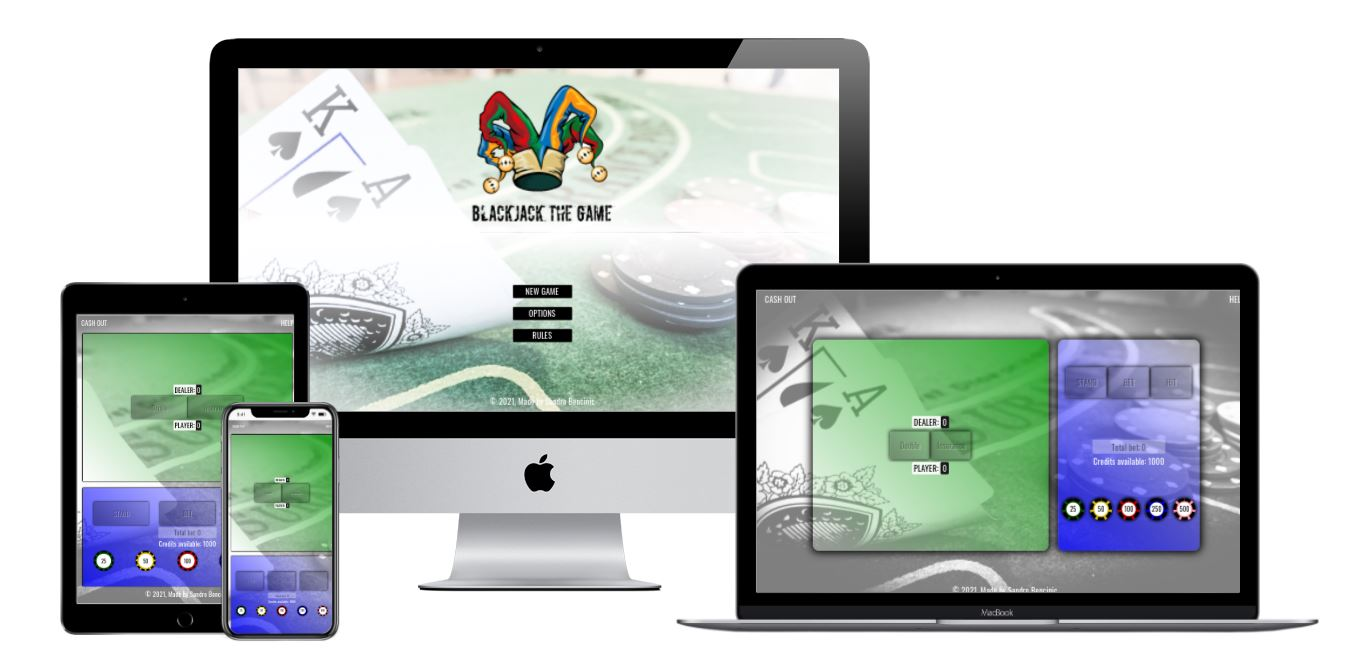
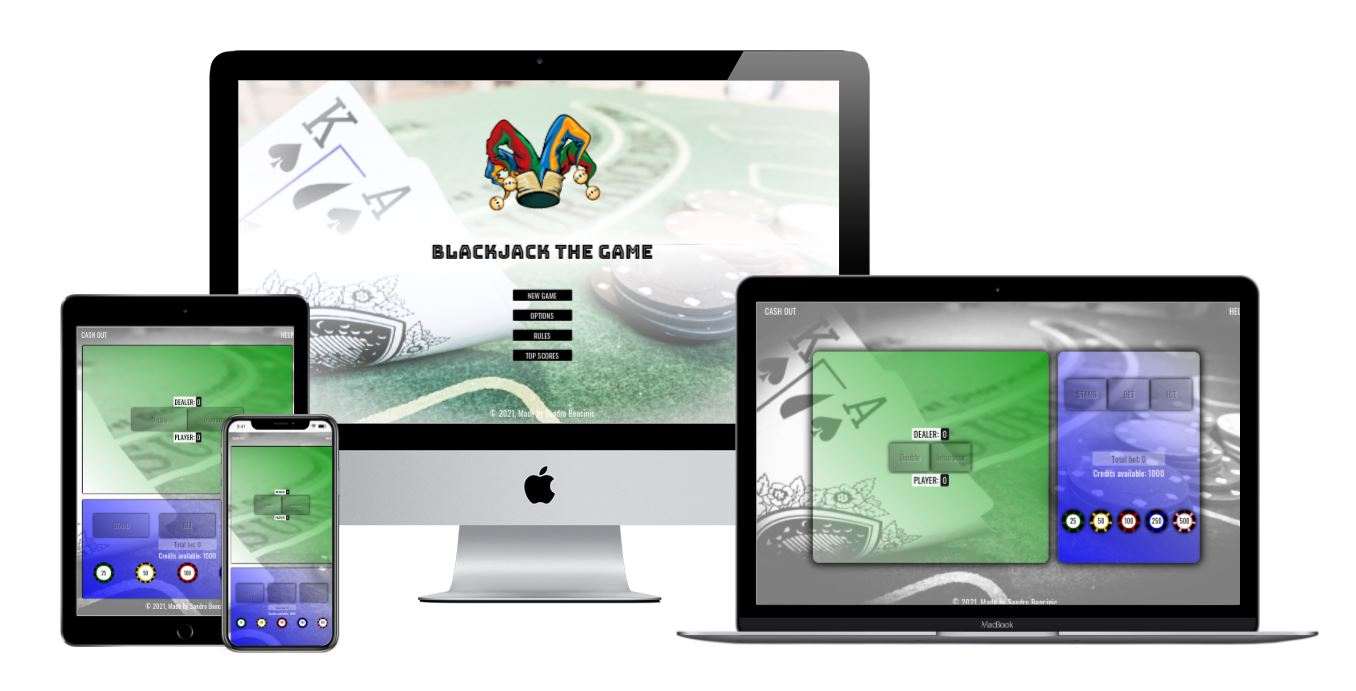
Update content in readme file (minor content changes, typos, etc)

diff --git a/README.md b/README.md
@@ -28,13 +28,13 @@
 
 - *As a casual player*, I want to get notified about the score in real time so I can adapt my strategy accordingly.
 
-- *As a casual player*, I want to see 'quit' button so I can restart the session whenever I wish.
+- *As a casual player*, I want to see 'quit' button so I can exit the session whenever I wish.
 
 #### 1.1.3 Advanced player's goals
 
 - *As an advanced player*, I want to be able to choose advanced options in order to make the game more interesting.
 
-- *As an advanced player*, I want to be able to keep my score so I can compare it with previous scores.
+- *As an advanced player*, I want to be able to keep my score so I can compare it with best scores.
 
 - *As an advanced player*, I want to see virtual currency system so I can place bets in each round.
 
@@ -64,17 +64,17 @@
 
 - [Balsamiq](https://balsamiq.com/) was used to create the wireframes during the site design process.
 
-- [jQuery](https://jquery.com/) was used along with JavaScript to manipulate the DOM, CSS and handling JavaScript events in simpler way.
+- [jQuery](https://jquery.com/) was used along with JavaScript to manipulate the DOM, CSS and handle JavaScript events in easier way.
 
-- [Google Fonts](https://fonts.google.com/) were used to import 'Oswald' font which is the only font used throughout the site.
+- [Google Fonts](https://fonts.google.com/) were used to import 'Oswald' and 'Bungee Inline' fonts which were used throughout the site.
 
-- [Gitpod](https://www.gitpod.io/) was used to write all the HTML and CSS for the site.
+- [Gitpod](https://www.gitpod.io/) was used to write all the HTML, CSS and JavaScript code for the site.
 
 - [Git](https://git-scm.com/) was used for version control by utilizing the Gitpod terminal to commit to Git and Push to GitHub
 
 - [GitHub](https://github.com/) is used to store the projects code after being pushed from Git.
 
-- [Photopea](https://www.photopea.com/) is free online photo editor which was used to edit and optimize background image and all card images.
+- [Photopea](https://www.photopea.com/) is free online photo editor which was used to edit and optimize background image, logo and all card images.
 
 - [Font Awesome](https://fontawesome.com/) was used to add icons for aesthetic and UX purposes.
 
@@ -86,7 +86,7 @@
 
 ## 4. DESIGN
 
-Design is very simplistic using only one photo as main background and all other elements are on top with added opacity so the background can be visible all the time. Background image shows a game of BlackJack in action which suits the theme of the site.
+Design is simplistic, with only one photo as main background (color and grayscale version). In the main menu there is also game logo (joker hat), game title and menu buttons. In the game playing area, main elements are opaque so the background is visible all the time. Background image shows a game of BlackJack in action which suits the theme of the site.
 
 Color scheme consists of two main colors. Light green for main playing area where cards are displayed, and deep blue for controls area where most of the playing buttons are placed. Throught the game pop up messages are displayed to explain current status of the game to the user and sometimes to decide on the next step. They are made in white color with black text. Font which is used for headings is 'Bungee Inline' with 'Sans Serif' as the fallback font in case for any reason main font is not loaded. Font which is used throughout the site for the rest of the text is 'Oswald' with 'Sans Serif' as the fallback font.
 
@@ -94,17 +94,17 @@ Color scheme consists of two main colors. Light green for main playing area wher
 
 #### 4.1.1 Start Screen
 
-First thing shown on the site is 'Start screen' with three buttons to select from: 'New game', 'Options', 'Rules' and additional 'Top Scores' button which is displayed only after there is at least one entry on top scores list. By selecting 'New game' as expected new game of BlackJack will start. By selecting 'Options' button player will have be able to choose from 'Conservative' and 'Aggressive' modes. This will control the way dealer will make decisions during the round. Lastly, 'Rules' button will display basic rules of the game in a box with arrow buttons and 'close' button for easier navigation. 'Tops scores' button will display list of top 5 scores stored in local memory.
+First thing shown on the site is 'Start screen' with three buttons to select from: 'New game', 'Options', 'Rules' and additional 'Top Scores' button which is displayed only after there is at least one entry on top scores list. By selecting 'New game', new game of BlackJack starts. By selecting 'Options' button player can choose from 'Conservative' and 'Aggressive' modes. This controls the way dealer makes decisions during the round. Lastly, 'Rules' button displays basic rules of the game in a box with arrow buttons and 'close' button for easier navigation. 'Tops scores' button displays list of top 5 scores stored in local storage of the browser.
 
 #### 4.1.2 Navigation
 
 ##### Cash-out
 
-This option will prompt a pop up message with a simple yes/no choice whether player wants to end current game session or not. If 'yes' is selected this will inform the player of the final score and reload the page, bringing the player to main menu.
+This option prompts a pop up message with a simple yes/no choice whether player wants to end current game session or not. If 'yes' is selected this informs the player of the final score and reloads the page, bringing the player to main menu.
 
 ##### Help
 
-This option will show the same rules window as the button in the main menu. Rules window is interactive and allows the player to easily navigate through all rules by selecting on of the arrows. Every rule has it's title and text explaining the rule.
+This option show the same rules window as the button in the main menu. Rules window is interactive and allows the player to easily navigate through all rules by selecting on of the arrows. Every rule has it's title and text which explains the rule.
 
 #### 4.1.3 Main game area
 
@@ -116,25 +116,25 @@ This is where majority of the card game takes place. It consists of 2 card conta
 
 * *Score boxes* - Their purpose is to show sum of the drawn card values. Because of the game mechanic players score box gets updated in real time after every new card is drawn. Dealers score box shows only the value of the one visible card in dealer's container. If dealer gets a chance to play and to show the cards in the end of the round then this score box is updated with total sum of card values too.
 
-* *Undo bet button* - It is enabled only after at least one bet is placed and before cards are dealt. By selecting in the last bet will be cancelled and credits will be returned to player. If all bets are cancelled button gets disabled again.
+* *Undo bet button* - It is enabled only after at least one bet is placed and before cards are dealt. By selecting in the last bet will be cancelled and credits will be returned to player. If all bets are cancelled button gets disabled again. On desktop computers this button is shown inside of controls section.
 
-* *Double button* - It is enabled only after initial cards are dealt. If player decides to choose other action at this stage (hit / stand / insurance) Double button gets disabled again until the end of the round.
+* *Double button* - It is enabled only after initial cards are dealt. If player decides to choose other action at this stage (hit / stand / insurance), 'double' button gets disabled again until the end of the round. If 'hit' button is activated, 'double' button is deactivated for the rest of the round.
 
-* *Insurance button* - It gets enabled only in situation when after initial dealing of cards dealer's visible card is Ace or any card which has value of 10. If player decides to activate insurance button separate bet will be placed. Pop-up message will be shown informing the player of the outcome of insurance bet and game will continue.
+* *Insurance button* - It gets enabled only in situation when after initial dealing of cards dealer's visible card is Ace or any card which has value of 10. If player decides to activate insurance button, separate bet is placed. Then a pop-up message is shown informing the player of the outcome of insurance bet and game continues. If 'hit' button is activated, 'insurance' button is deactivated for the rest of the round.
 
-* *Pop up message box* - It gets visible only when game needs to inform player about game outcome (win, loss, draw or insurance bet). Message box is shown in the same section on the screen where scores and double/insurance buttons are so when it gets activated it will automatically disable the latter.
+* *Pop up message box* - It gets visible only when game needs to inform player about game outcome (win, loss, draw or insurance bet), or wait for payer's input. Message box is shown in the same section on the screen where scores and double/insurance buttons are so when it gets activated it will automatically disable the latter.
 
 ##### Controls section
 
-This is where majority of player game choices takes place. It consists of Bank info which shows current amount of credits in the bank, chip buttons which are used to place bets and three game buttons (bet / hit / stand).
+This is where majority of player game choices takes place. It consists of 'Credits available' which shows current amount of credits on player's disposal, 'Total bet' box, chip buttons which are used to place bets and three game buttons (bet / hit / stand).
 
-* *Bank info* - Shows current amount of credits left for player to place as a bet. It gets updated in real time depending on player's bets and potential winnings.
+* *Credits available* - Shows current amount of credits left for player to place as a bet. It gets updated in real time depending on player's bets and potential winnings.
 
-* *Bet-info* - Shows total value of the bet in the round. It adds or deducts total value of the bet depending on player's actions and updates the value in real time. After the cards are dealt this value can not be changed until the end of the round (only exception is if player decides to play double game which will double the bet or insurance game which will display separate bet in brackets).
+* *Total bet* - Shows total value of the bet in the round. It adds or deducts total value of the bet depending on player's actions and updates the value in real time. After the cards are dealt this value can not be changed until the end of the round (only exception is if player decides to play double game which will double the bet or insurance game which will display separate bet in brackets).
 
-* *Chip buttons* - There are 5 chip buttons with different values and colors. By selecting any of them a bet of the assigned value in credits will be placed. If there is no enough credits left in the bank to place a bet of certain chip value this will disable the chip button. If the amount gets available again (for example by undoing the last bet) chip button gets activated. Once the bet is placed and initial cards are dealt all chip buttons get deactivated until the beginning of the new round.
+* *Chip buttons* - There are 5 chip buttons with different values and colors. By selecting any of them a bet of the assigned value in credits is placed. If there is no enough credits left to place a bet of certain chip value this chip is then deactivated. If the amount gets available again (for example by undoing the last bet) chip button gets activated. Once the bet is placed and initial cards are dealt all chip buttons get deactivated for the rest of the round.
 
-* *Play buttons* - There are 3 buttons in this area available to play the game (bet / hit / stand). Bet button gets activated after there is minimum bet placed in the pot. Bet button can be selected only once after which initial cards will be dealt and button will be disabled until new bet in next round is placed. Hit button will add new card to player's card container and it can be selected until there are 5 cards in player's card container or until the total player's score is 21 or more. Stand button will end player's turn and allow dealer to play.
+* *Play buttons* - There are 3 buttons in this area available to play the game (bet / hit / stand). Bet button gets activated after there is minimum bet placed in the pot. Bet button can be selected only once, after which initial cards is dealt and button is deactivated until the end of the round. Hit button adds new card to player's card container and it can be selected until there are 5 cards in player's card container or until the total player's score is 21 or more. Stand button ends player's turn and allows dealer to play.
 
 
 ---
@@ -202,7 +202,7 @@ The [W3C Markup Validator](https://validator.w3.org/) and [W3C CSS Validator](ht
 
     [Example 6](/documentation/testing/images/ux/006.jpg)
 
-- As a first time player, I want to clearly see who won and why so I can quicker understand all mechanics of the game.
+- As a first time player, I want to clearly see who won and why so I can faster understand all mechanics of the game.
 
     - Every game outcome is explained through pop up messages, same as special functions such as *double*, *insurance* and *cash-out*
 
@@ -217,7 +217,7 @@ The [W3C Markup Validator](https://validator.w3.org/) and [W3C CSS Validator](ht
 
 - As a casual player, I want to be challenged and entertained.
 
-    - Different combinations of cards, different betting strategies and in game decisions made by user combined with many possible game outcomes make every round of the game a unique experience for the user.
+    - Different combinations of cards, betting strategies and in game decisions made by user combined with many possible game outcomes make every round of the game a unique experience for the user.
 
 - As a casual player, I want to get notified about the score in real time so I can adapt my strategy accordingly.
 
@@ -225,7 +225,7 @@ The [W3C Markup Validator](https://validator.w3.org/) and [W3C CSS Validator](ht
 
     [Example 8](/documentation/testing/images/ux/008.jpg)
 
-- As a casual player, I want to see 'quit' button so I can restart the session whenever I wish.
+- As a casual player, I want to see 'quit' button so I can exit the session whenever I wish.
 
     - In the top left corner of the navigation bar there is *Cash-out* button which gives the user the option to leave current session and get notified about the final score.
 
@@ -241,9 +241,9 @@ The [W3C Markup Validator](https://validator.w3.org/) and [W3C CSS Validator](ht
 
     [Example 11](/documentation/testing/images/ux/011.jpg)
 
-- As an advanced player, I want to be able to keep my score so I can compare it with previous scores.
+- As an advanced player, I want to be able to keep my score so I can compare it with best scores.
 
-    - In the main menu there is a 'Top Scores' button which will show list of all time top 5 scores stored in local memory of the browser.
+    - In the main menu there is a 'Top Scores' button which will show list of all time top 5 scores stored in local storage of the browser.
 
     [Example 12](/documentation/testing/images/ux/012.jpg)
 
@@ -279,7 +279,7 @@ The [W3C Markup Validator](https://validator.w3.org/) and [W3C CSS Validator](ht
 
     ![responsive](/documentation/testing/images/resolutions/responsive.JPG)
 
-- *NOTE: Game is designed to be played in portrait mode on mobile and tablet devices and in landscape mode on desktop and laptop computers. However, game experience gets better in landscape mode on mobile and tablet devices with larger screen resolutions. For this purpose, in cases when player is using mobile or tablet device in landscape mode, folloing pop up message appears:*
+- *NOTE: Game is designed to be played in portrait mode on mobile and tablet devices and in landscape mode on desktop and laptop computers. However, game experience gets better in landscape mode on mobile and tablet devices with larger screen resolutions. For this purpose, in cases when player is using mobile or tablet device in landscape mode, following pop up message appears:*
 
     ![screen-size-tip](/documentation/testing/images/resolutions/screen-size-tip.png)
 
